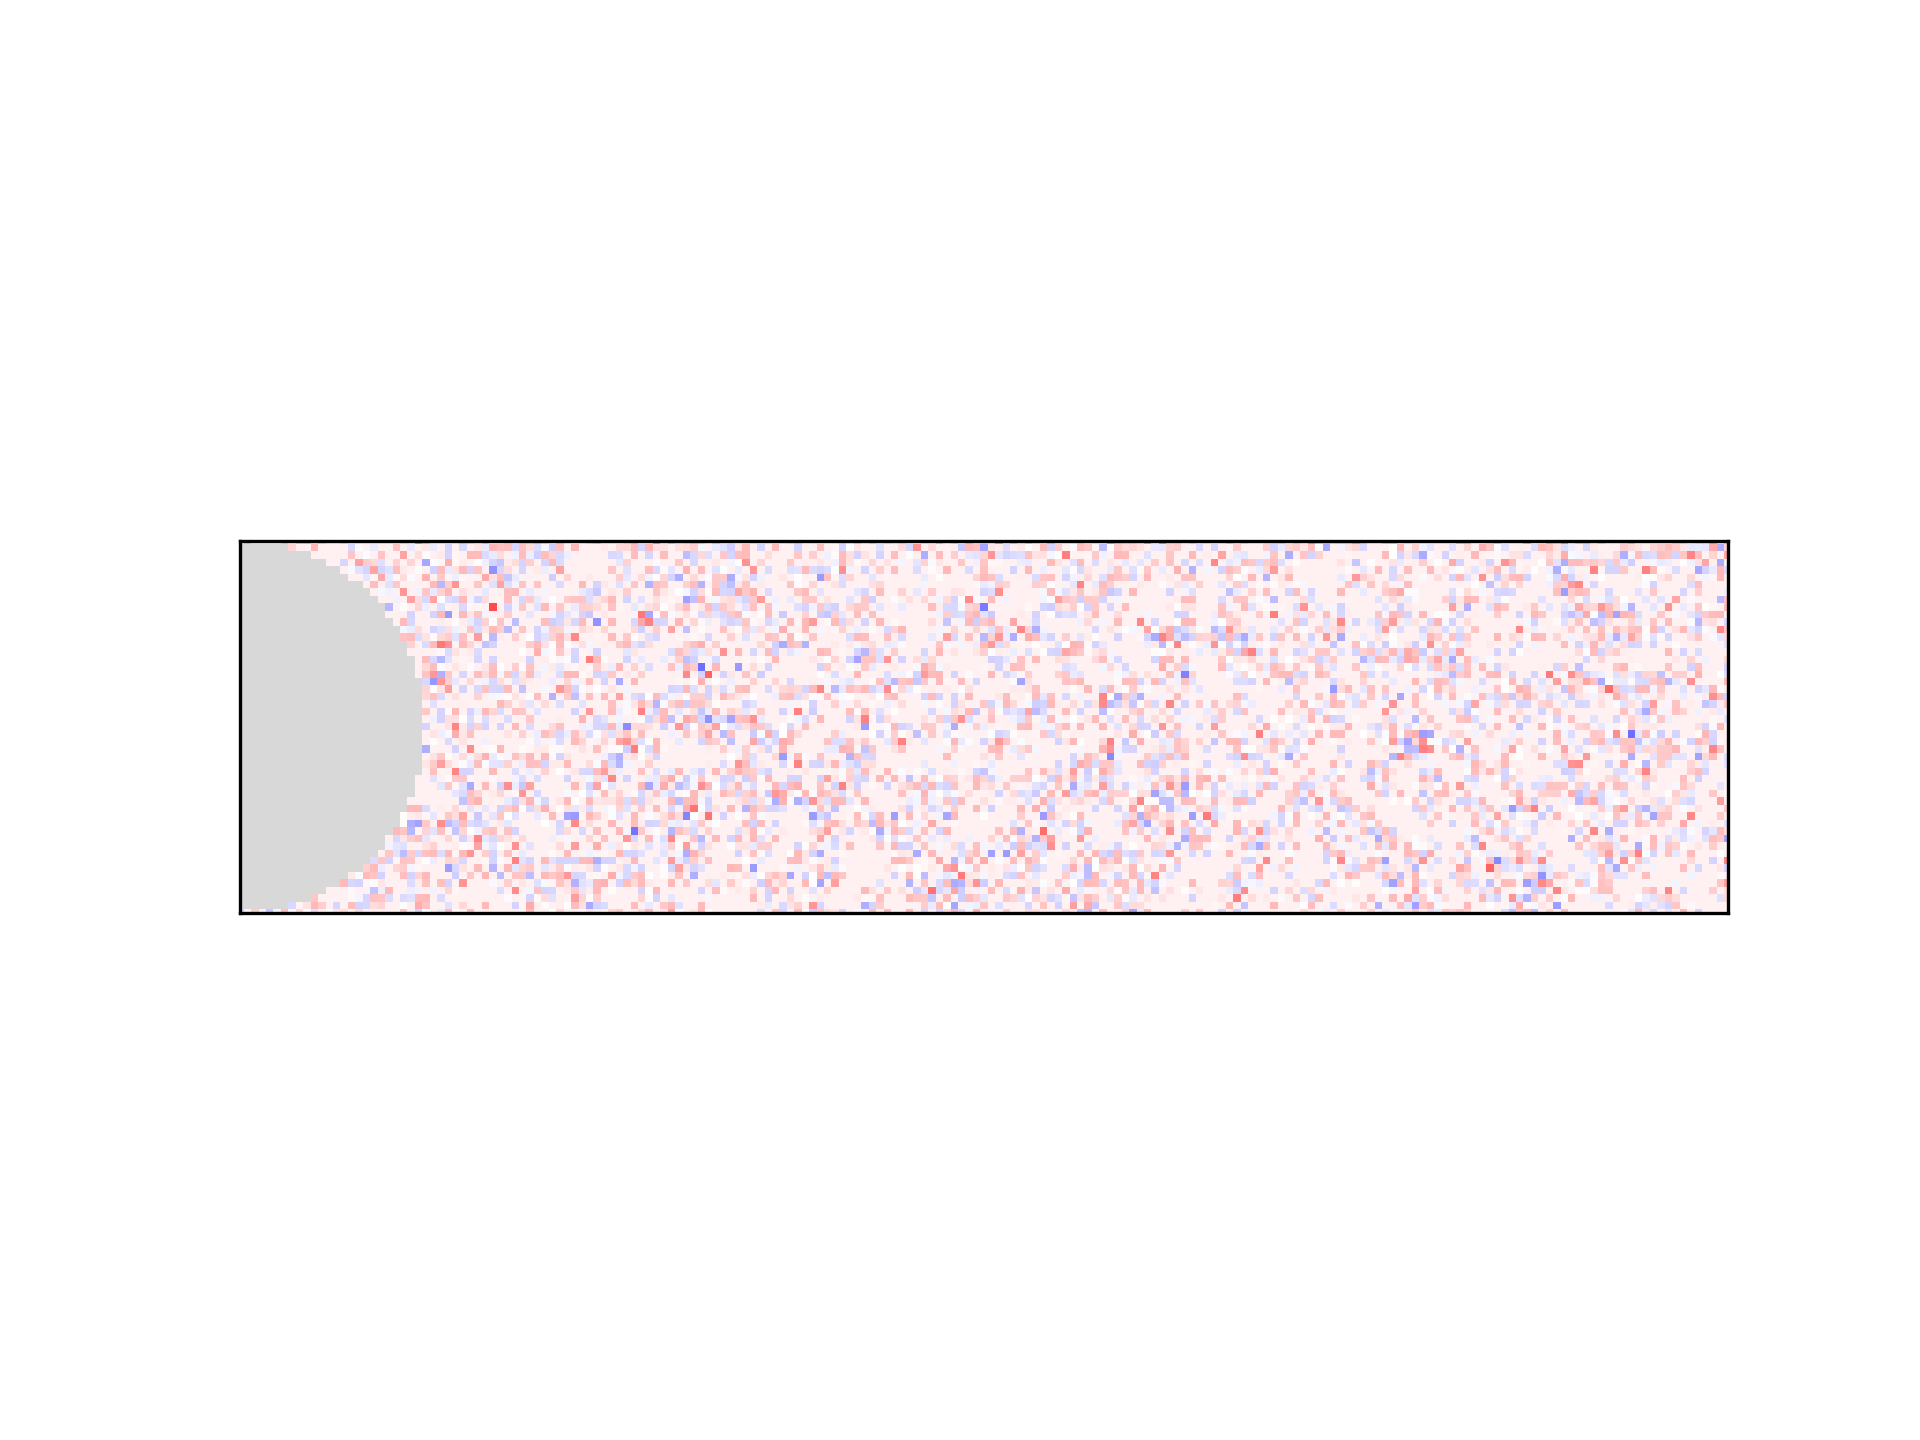
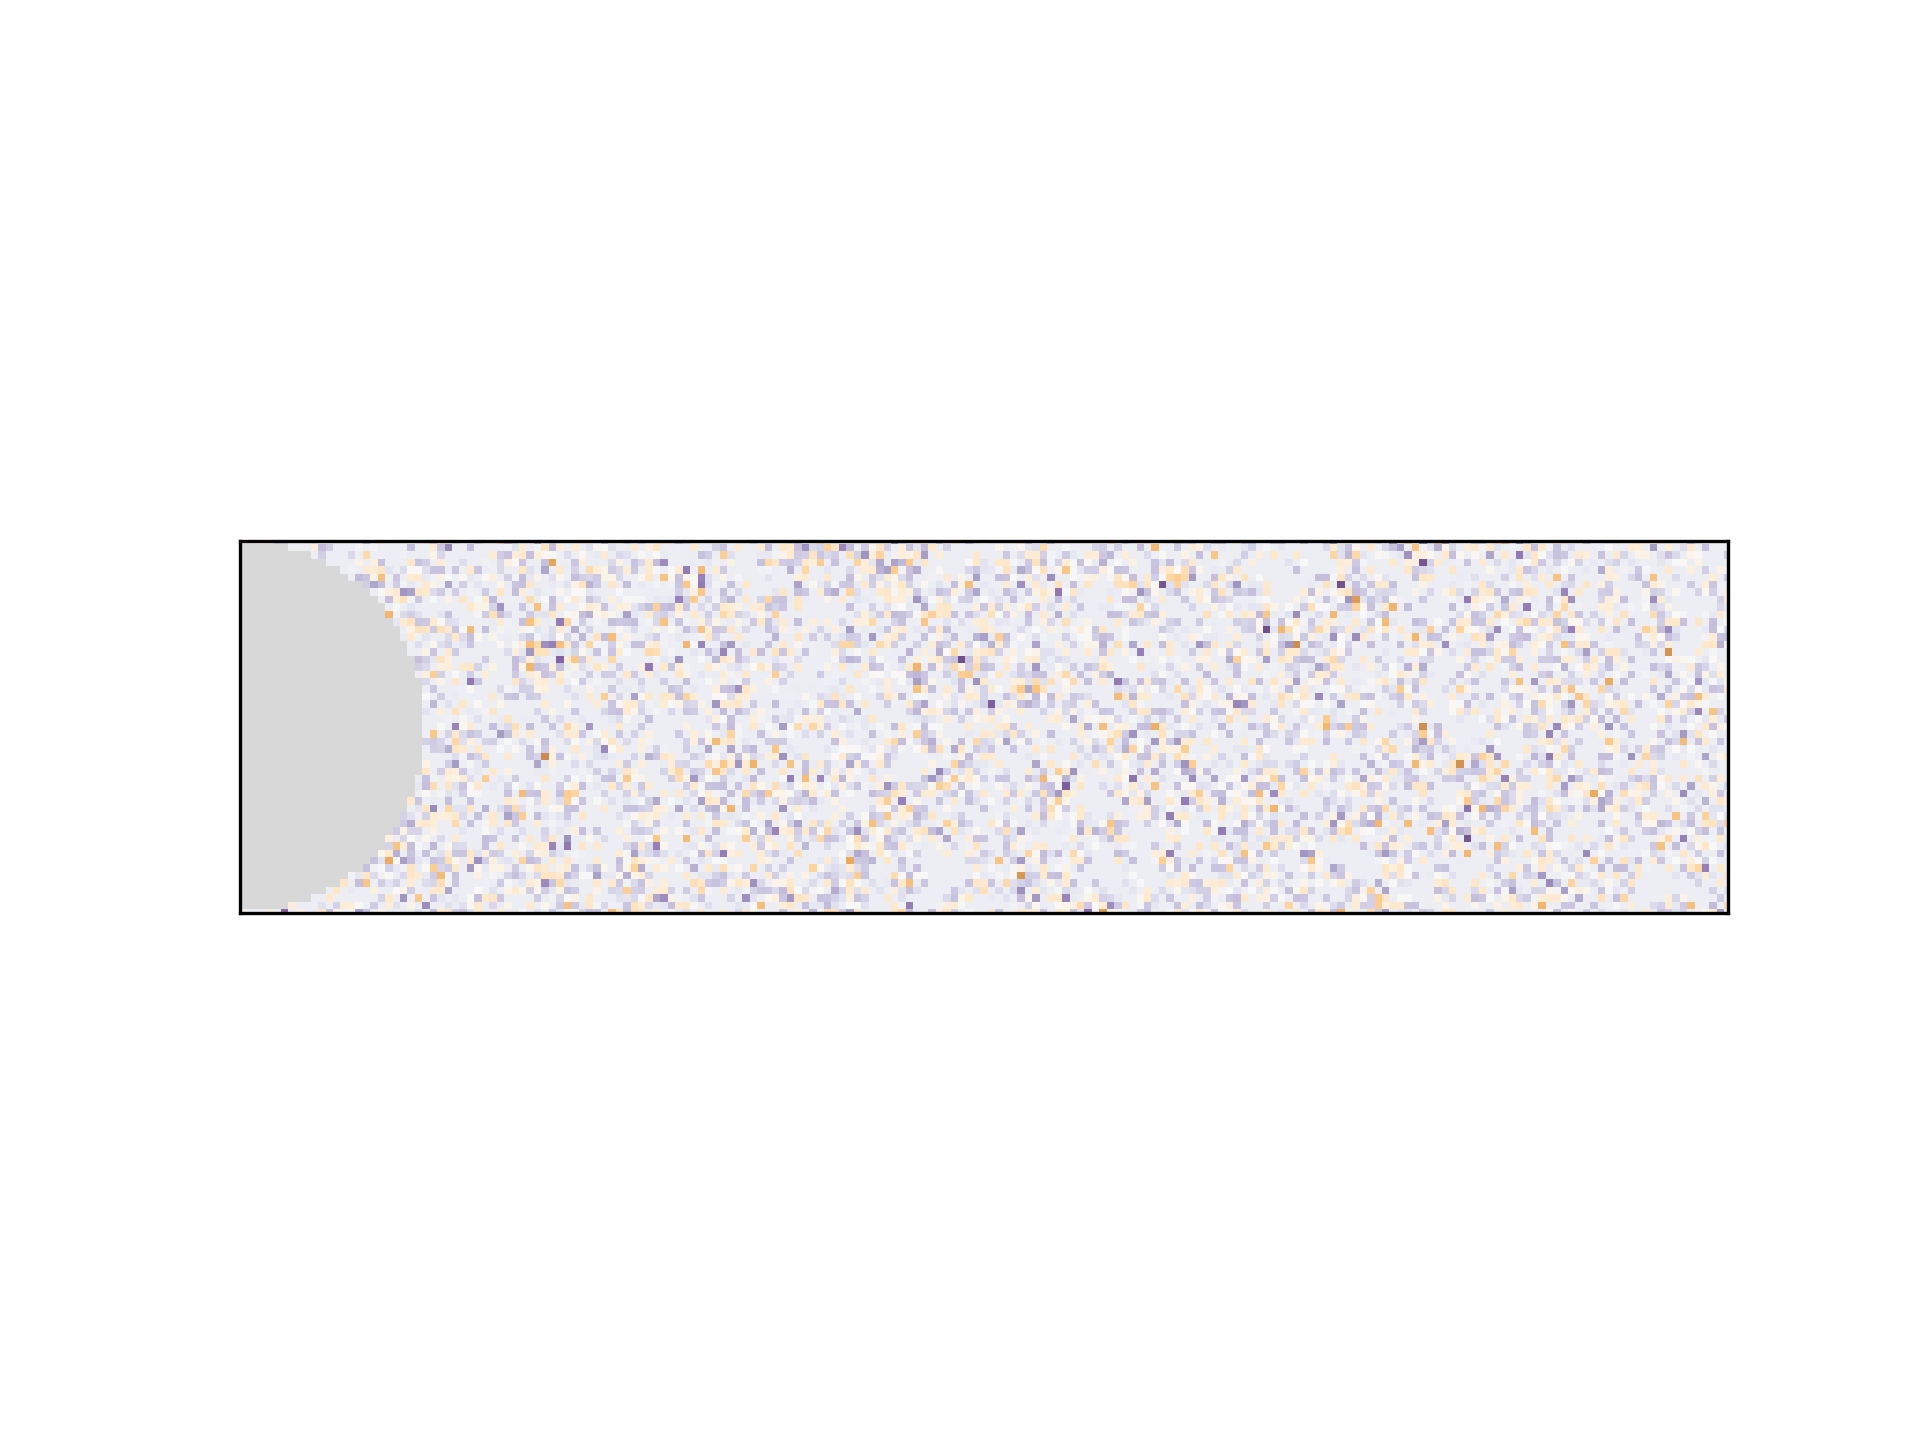
yeah its good

Changed region(s): [[0.1562, 0.375, 0.9062, 0.6562]]

diff --git a/lagrangian.py b/lagrangian.py
@@ -78,8 +78,8 @@ def plot_vorticity(ux, uy, cylinder, Nx, Ny, it, Nt):
     """
     if it % 10 == 0 or it == Nt - 1:
         plt.cla()
-        plt.xlim(100, 300)
-        plt.ylim(25, 75)
+        # plt.xlim(100, 300) # zoomed in the figure
+        # plt.ylim(25, 75)
         ux[cylinder] = 0
         uy[cylinder] = 0
         vorticity = (np.roll(ux, -1, axis=0) - np.roll(ux, 1, axis=0)) - (
